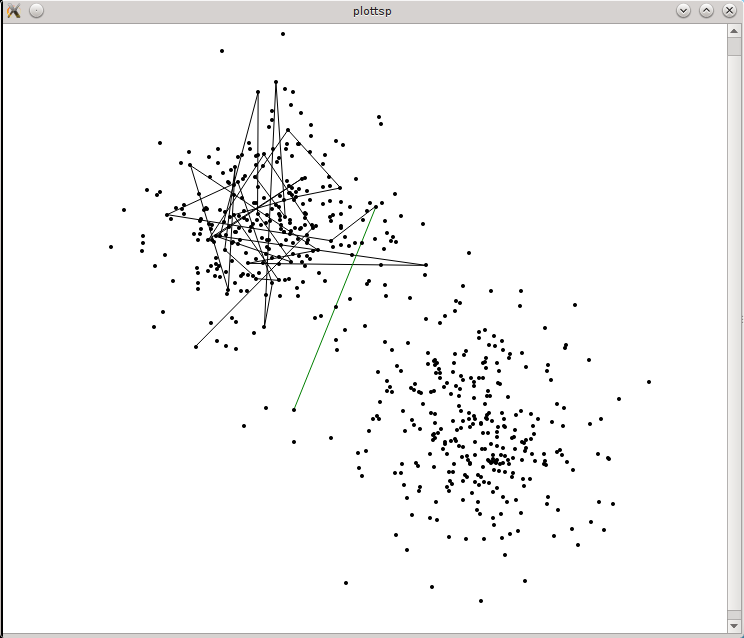
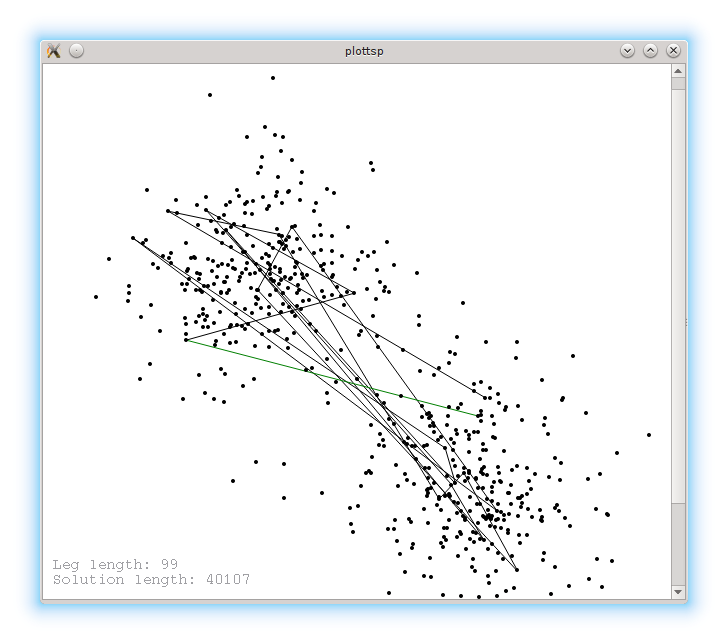
Add HUD showing length of solution and current leg.

diff --git a/view.cpp b/view.cpp
@@ -15,7 +15,9 @@ View::View(std::istream &in, QGraphicsScene *scene, QWidget *parent) :
     QGraphicsView(scene, parent),
     m_legPen(Qt::black, 0),
     m_currentLegPen(QColor(Qt::green).darker(), 0),
-    m_currentLeg(0)
+    m_currentLeg(0),
+    hudFont("Courier", 10),
+    m_solutionLength(0)
 {
     resize(900, 600);
     setRenderHints(QPainter::Antialiasing);
@@ -59,6 +61,7 @@ View::View(std::istream &in, QGraphicsScene *scene, QWidget *parent) :
             QGraphicsLineItem *leg = scene->addLine(QLineF(start, end), m_legPen);
             leg->setVisible(false);
             m_legs.append(leg);
+            m_solutionLength += qRound(leg->line().length());
             startIndex = endIndex;
         }
         m_legs[m_currentLeg]->setPen(m_currentLegPen);
@@ -98,21 +101,32 @@ void View::keyPressEvent(QKeyEvent *event) {
 }
 
 void View::drawForeground(QPainter *painter, const QRectF& rect) {
-    const int radius = 2.0;
-
     painter->setMatrixEnabled(false);
     painter->setPen(Qt::NoPen);
     painter->setBrush(Qt::black);
     painter->setRenderHint(QPainter::Antialiasing);
 
-    QRectF biggerRect = rect.adjusted(-100, -100, 100, 100);
-    QPointF viewPoint;
+    // Draw points.
+    const QRectF biggerRect = rect.adjusted(-100, -100, 100, 100);
+    const float radius = 2.0;
     foreach (const QPointF& point, m_points) {
         if (biggerRect.contains(point)) {
-            viewPoint = mapFromScene(point);
-            painter->drawEllipse(viewPoint, radius, radius);
+            painter->drawEllipse(QPointF(mapFromScene(point)), radius, radius);
         }
     }
+
+    // Draw HUD.
+    const int legLength = qRound(m_legs[m_currentLeg]->line().length());
+
+    const QString legHud = QString("Leg length: %1").arg(legLength);
+    const QString solutionHud = QString("Solution length: %1").arg(m_solutionLength);
+
+    const QPointF legHudPos = rect.bottomLeft() + QPointF(10/transform().m11(), -30/transform().m22());
+    const QPointF solutionHudPos = rect.bottomLeft() + QPointF(10/transform().m11(), -15/transform().m22());
+    painter->setFont(hudFont);
+    painter->setPen(Qt::gray);
+    painter->drawText(mapFromScene(legHudPos), legHud);
+    painter->drawText(mapFromScene(solutionHudPos), solutionHud);
 }
 
 void View::moveForward(int steps) {

diff --git a/view.h b/view.h
@@ -32,6 +32,9 @@ private:
     QPen m_legPen;             // Pen used for legs.
     QPen m_currentLegPen;      // Pen used for current leg.
     int m_currentLeg;          // Index of current leg.
+
+    QFont hudFont;         // Font for the HUD.
+    int m_solutionLength;  // Total length of solution.
 };
 
 #endif // VIEW_H
